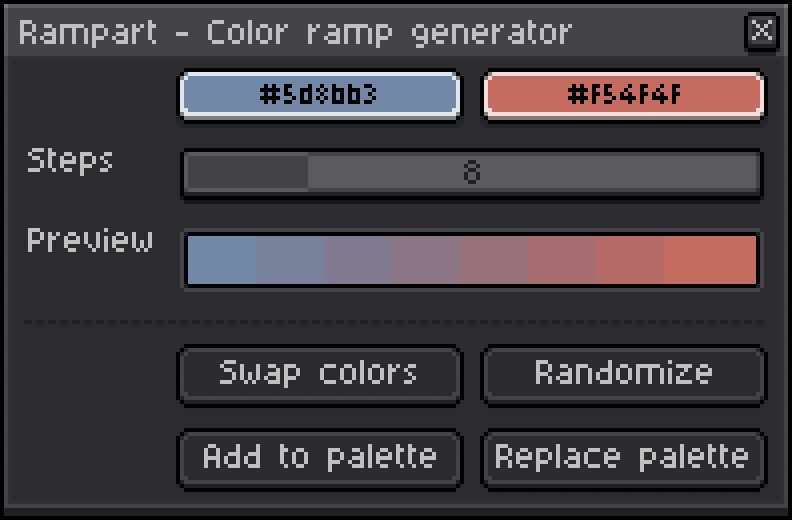
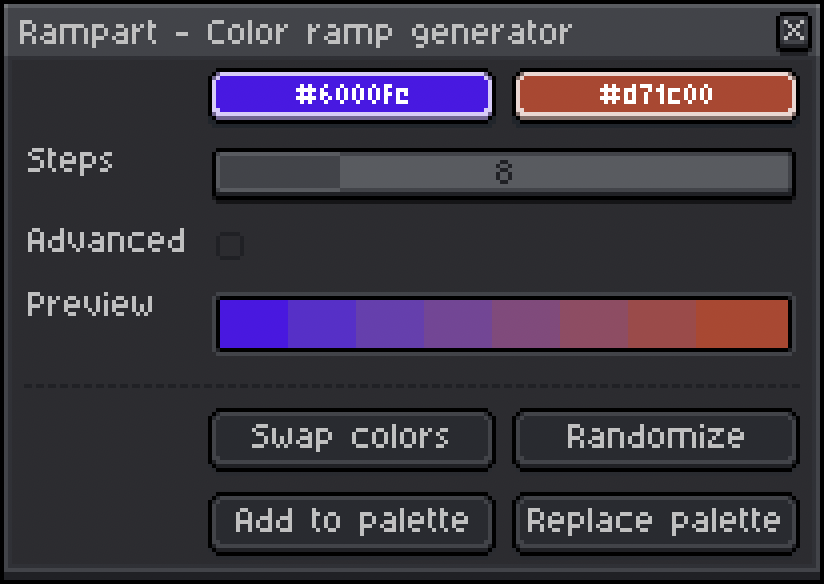
v1.1.0 - Introduce improved perceptual mixing algo
add "Advanced" mode and gamma correction

update screenshots

diff --git a/README.md b/README.md
@@ -3,10 +3,13 @@
 
 This [Aseprite](https://aseprite.org) extension allows you to build color palettes quickly and easily by generating a gradual ramp between two colors of your chosing.
 
-*current release: [v1.0.0](https://sudo-whoami.itch.io/rampart)*
+*current release: [v1.1.0](https://sudo-whoami.itch.io/rampart)*
 
 ## Latest Changes
-- Initial release!
+
+Version 1.1.0 introduces an improved "Perceptual" mixing algorithm based on the [Oklab color space](https://en.wikipedia.org/wiki/Oklab_color_space), which looks a lot better than the naïve linear mixing algorithm most of the time. That said, because different people want different things, you can now select the mixing algorithm you prefer!
+
+(the default is "Perceptual")
 
 ## Requirements
 
@@ -28,6 +31,25 @@ To reverse the ramp, click **"Swap Colors"**
 If you're not sure where to start, click **"Randomize"** for some inspiration!
 
 Once you're happy with your color ramp, you can click either **"Add to palette"** to append its colors to your current palette or click **"Replace palette"** to start a fresh palette with your ramp
+
+## Advanced Mode
+To enable more advanced functionality, check the **Advanced** box
+
+<img src="./screenshots/advanced.png"></img>
+
+In this mode you'll be able to select between two color mixing modes:
+- "Perceptual", which handles color mixing in the [Oklab color space](https://en.wikipedia.org/wiki/Oklab_color_space) (this is the default mixing algorithm)
+- "Linear", which applies basic linear color mixing
+
+If "Perceptual" mixing mode is selected, you can also adjust the [gamma](https://en.wikipedia.org/wiki/Gamma_correction) correction level between 1.2 and 3.0 to fine-tune the mix
+
+Gamma can be adjusted in increments of 0.2; the default is 2.2
+
+This image shows the same color ramp in "Linear" mixing mode (first row) and then in "Perceptual" mixing mode with the gamma correction level increasing from 1.2 to 3.0 in each row:
+
+<img src="./screenshots/gamma correction.png">
+
+***NOTE**: You may notice some very slight deviation in the endpoint colors at high or low gamma levels due to how Lua handles rounding; I'll try to fix this if I can!*
 
 ## Installation
 You can download this extension from [itch.io](https://sudo-whoami.itch.io/rampart) as a "pay what you want" tool
